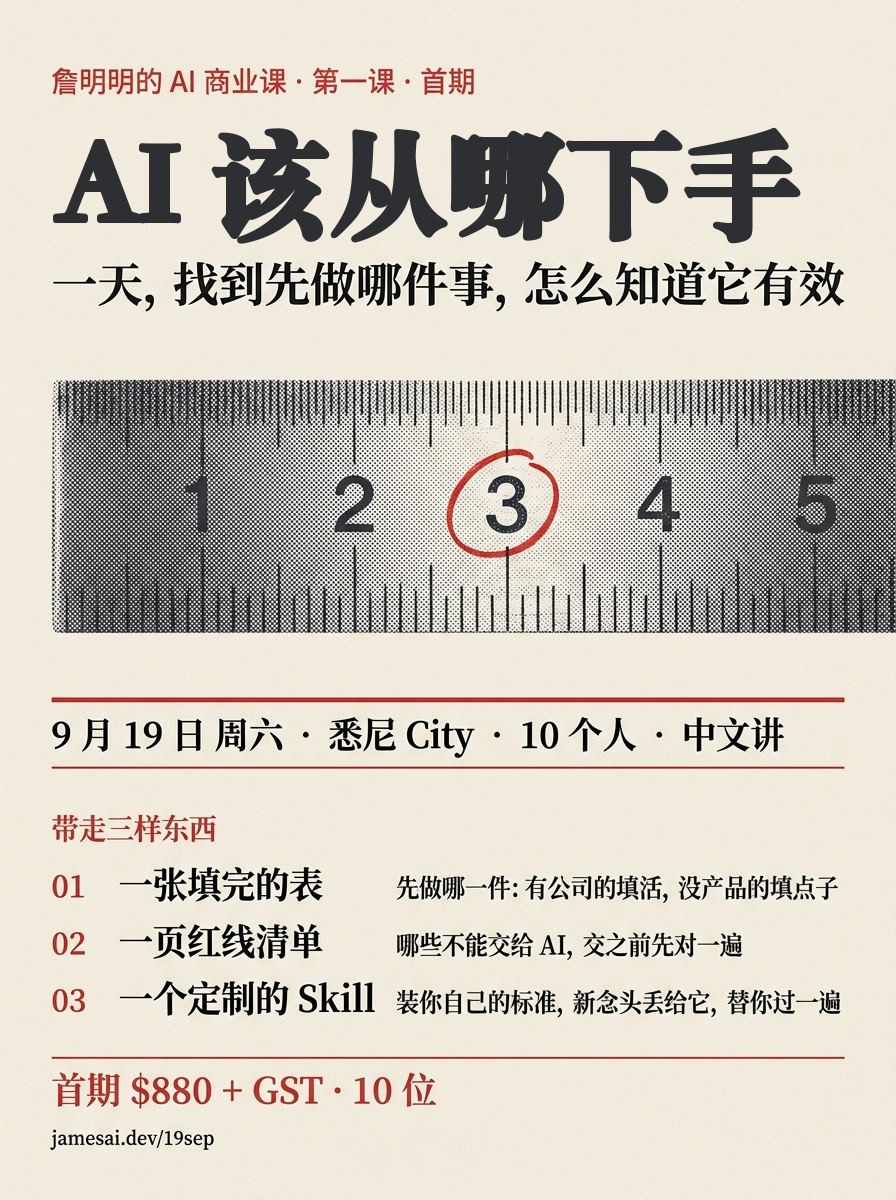
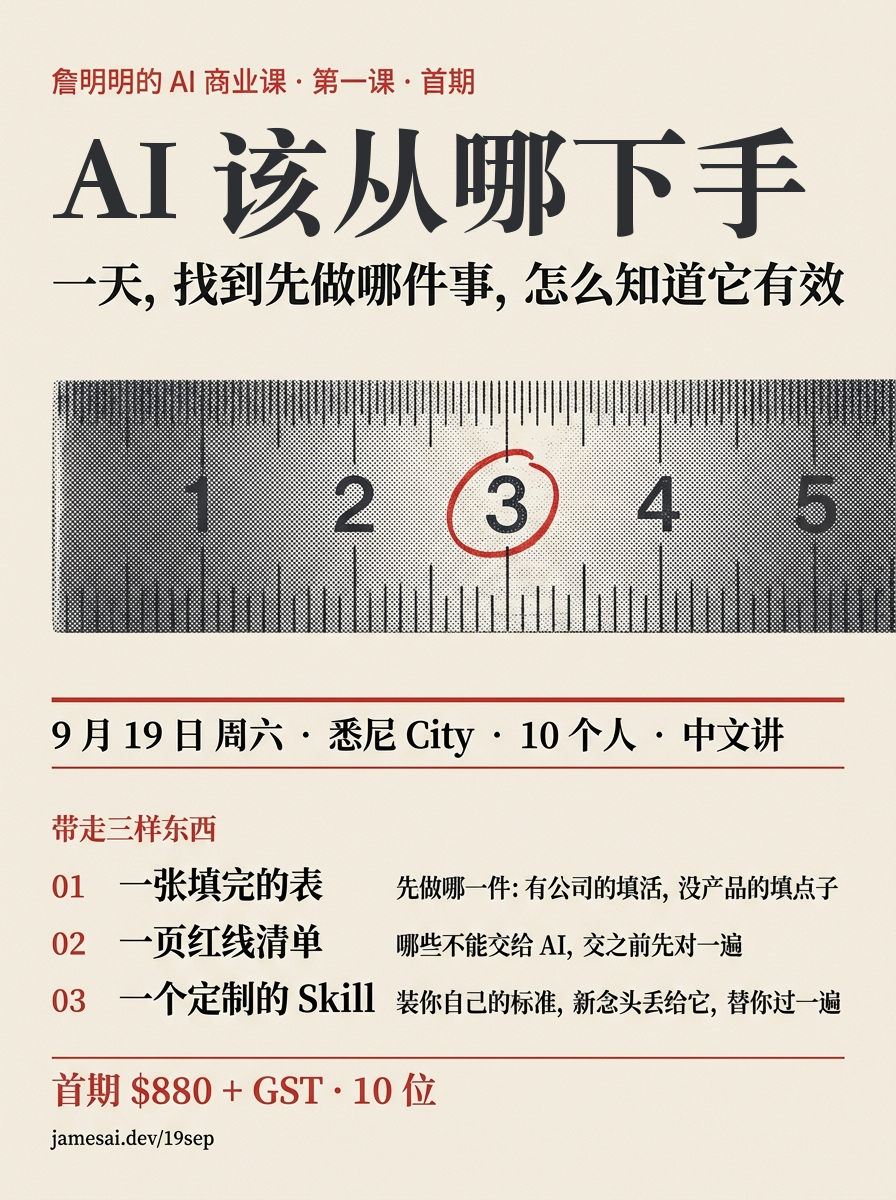
19 Sep poster: headline set lighter, the stroked version was hard to read

Changed region(s): [[0.4688, 0.0925, 0.9062, 0.2158], [0.25, 0.0925, 0.4688, 0.2158], [0.0625, 0.1233, 0.2188, 0.185]]

diff --git a/19sep/index.html b/19sep/index.html
@@ -471,8 +471,8 @@ footer a { color: var(--ink-soft); text-decoration: none; border-bottom: 1px sol
        beige rectangle on a near-black page is the one thing that would still
        look bolted on after the restyle. The download and the og:image stay the
        day sheet: that is the one people share. -->
-  <a class="poster-link" href="poster.png?v=3"><img class="poster" id="poster"
-       src="poster.webp?v=5" data-day="poster.webp?v=5" data-night="poster-night.webp?v=5"
+  <a class="poster-link" href="poster.png?v=4"><img class="poster" id="poster"
+       src="poster.webp?v=6" data-day="poster.webp?v=5" data-night="poster-night.webp?v=6"
        width="896" height="1200" fetchpriority="high" decoding="async"
        alt="詹明明的 AI 商业课 · 第一课 · 首期。AI 该从哪下手。一天，找到先做哪件事，怎么知道它有效。9 月 19 日周六，悉尼 City，10 个人，中文讲。带走三样东西：一张填完的表、一页红线清单、一个定制的 Skill。首期 $880 + GST，10 位。"></a>
 
